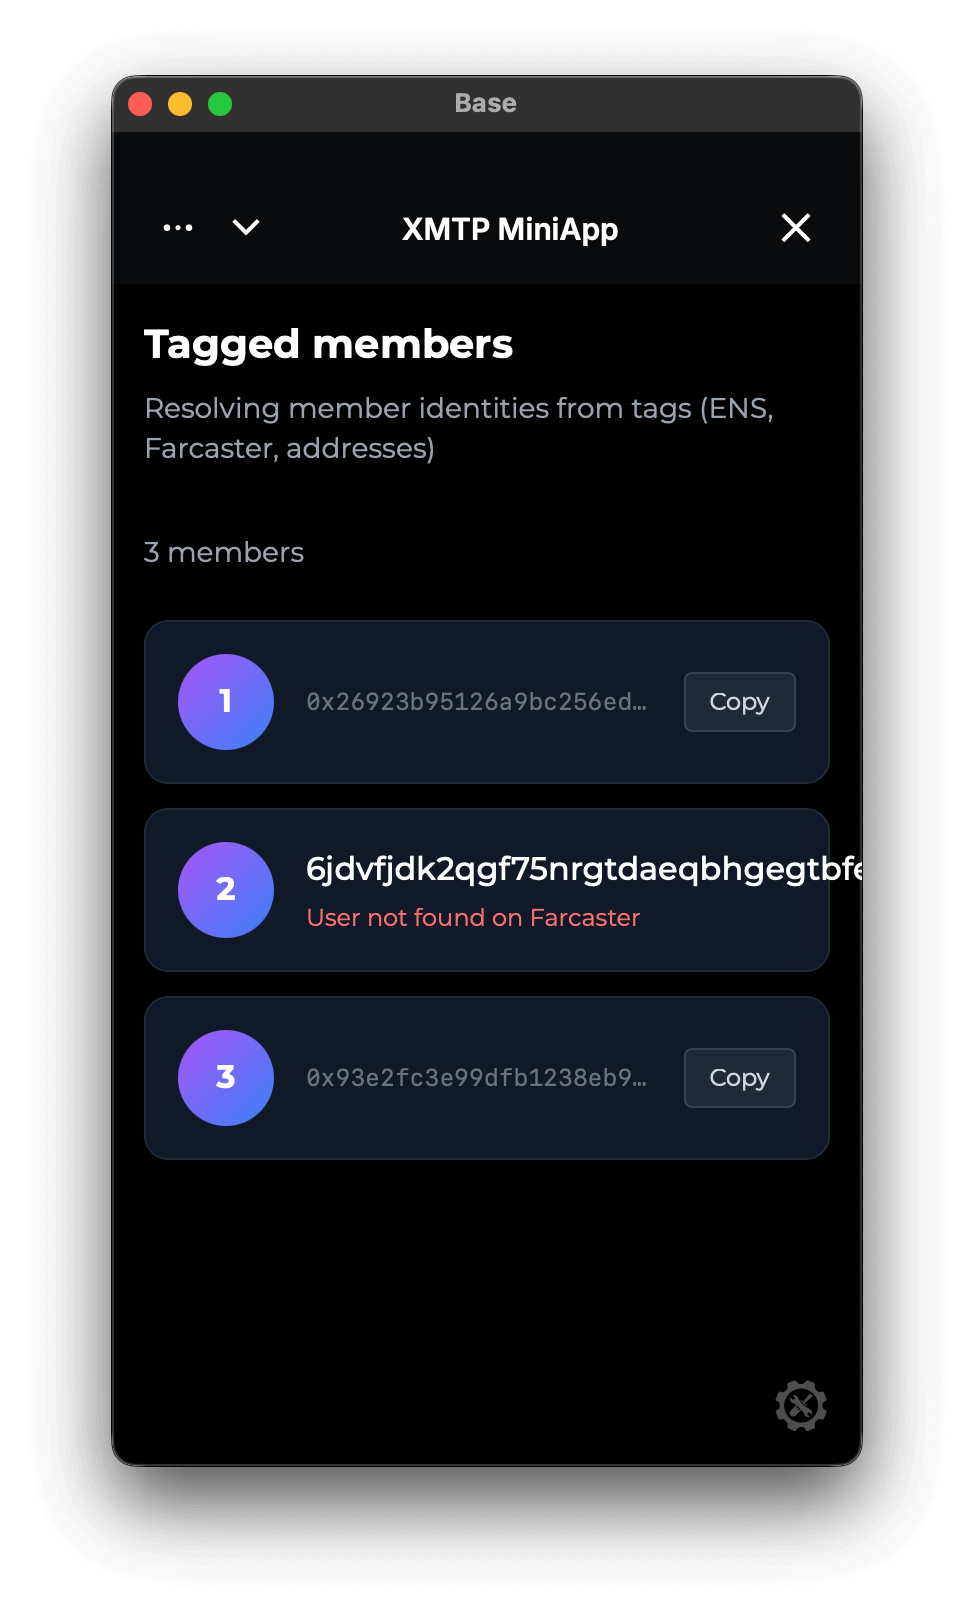
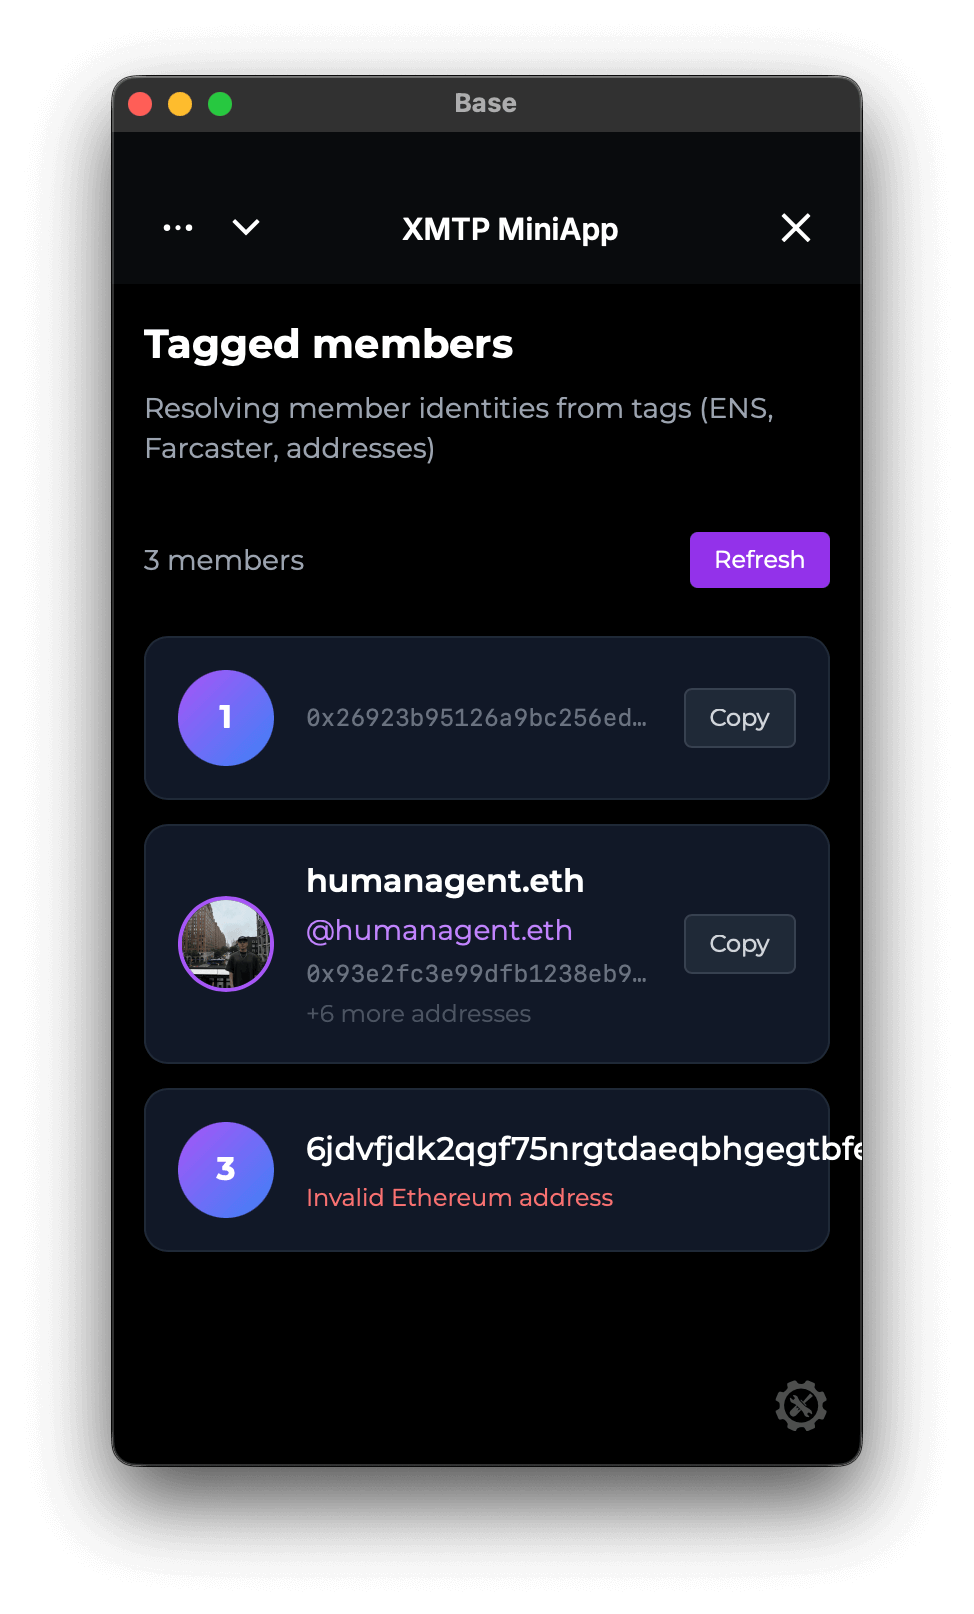
Refactor user search function

Changed region(s): [[0.1232, 0.3098, 0.8932, 0.7745]]

diff --git a/frontend/src/lib/resolver.ts b/frontend/src/lib/resolver.ts
@@ -88,51 +88,6 @@ async function fetchFarcasterUserByFid(
 }
 
 /**
- * Search for a Farcaster user by Ethereum address
- */
-async function searchFarcasterUserByAddress(address: string): Promise<number | null> {
-  console.log(`[Neynar] searchFarcasterUserByAddress called with address: "${address}"`);
-  
-  if (!NEYNAR_API_KEY) {
-    console.warn("[Neynar] NEYNAR_API_KEY not configured");
-    return null;
-  }
-
-  try {
-    const url = `${NEYNAR_BASE_URL}/user/bulk-by-address`;
-    const params = { addresses: address };
-    console.log(`[Neynar] Making API request to: ${url}`);
-    console.log(`[Neynar] Request params:`, params);
-    
-    const response = await ky
-      .get(url, {
-        searchParams: params,
-        headers: {
-          "x-api-key": NEYNAR_API_KEY,
-        },
-        timeout: 5000,
-      })
-      .json<{ [key: string]: NeynarUser[] }>();
-
-    console.log(`[Neynar] Bulk by address response:`, response);
-
-    // The response is an object with addresses as keys
-    const users = response[address.toLowerCase()];
-    if (users && users.length > 0) {
-      const fid = users[0].fid;
-      console.log(`[Neynar] Found user with FID: ${fid} for address: ${address}`);
-      return fid;
-    }
-
-    console.log(`[Neynar] No Farcaster user found for address: ${address}`);
-    return null;
-  } catch (error) {
-    console.error(`[Neynar] Error searching for address ${address}:`, error);
-    return null;
-  }
-}
-
-/**
  * Resolve an Ethereum address and enrich with Farcaster profile data
  */
 export async function resolveIdentifier(
@@ -156,13 +111,43 @@ export async function resolveIdentifier(
     };
   }
 
-  console.log(`[Resolver] Valid Ethereum address, checking Farcaster for profile...`);
+  console.log(`[Resolver] Valid Ethereum address, checking Farcaster...`);
   
+  if (!NEYNAR_API_KEY) {
+    console.warn("[Resolver] NEYNAR_API_KEY not configured");
+    return {
+      identifier,
+      address: cleanIdentifier,
+      isResolving: false,
+    };
+  }
+
   try {
-    const fid = await searchFarcasterUserByAddress(cleanIdentifier);
+    // Search for Farcaster user by address
+    const url = `${NEYNAR_BASE_URL}/user/bulk-by-address`;
+    const params = { addresses: cleanIdentifier };
+    console.log(`[Resolver] Making API request to: ${url}`);
+    console.log(`[Resolver] Request params:`, params);
     
-    if (fid) {
-      console.log(`[Resolver] Found Farcaster profile, FID: ${fid}`);
+    const addressResponse = await ky
+      .get(url, {
+        searchParams: params,
+        headers: {
+          "x-api-key": NEYNAR_API_KEY,
+        },
+        timeout: 5000,
+      })
+      .json<{ [key: string]: NeynarUser[] }>();
+
+    console.log(`[Resolver] Address lookup response:`, addressResponse);
+
+    // The response is an object with addresses as keys
+    const users = addressResponse[cleanIdentifier.toLowerCase()];
+    if (users && users.length > 0) {
+      const fid = users[0].fid;
+      console.log(`[Resolver] Found Farcaster user with FID: ${fid}`);
+      
+      // Fetch full user profile
       const user = await fetchFarcasterUserByFid(fid);
       
       if (user) {
